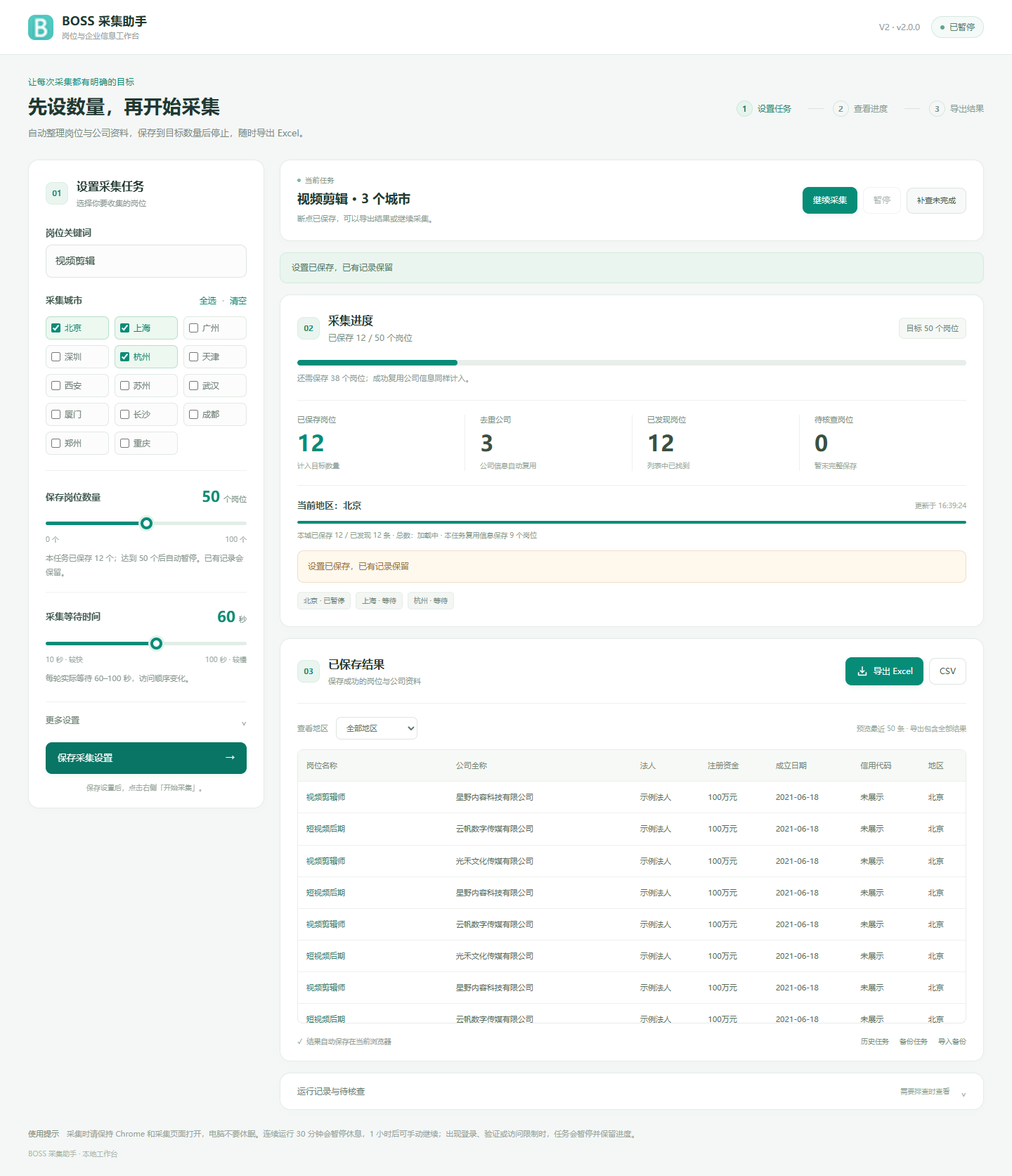
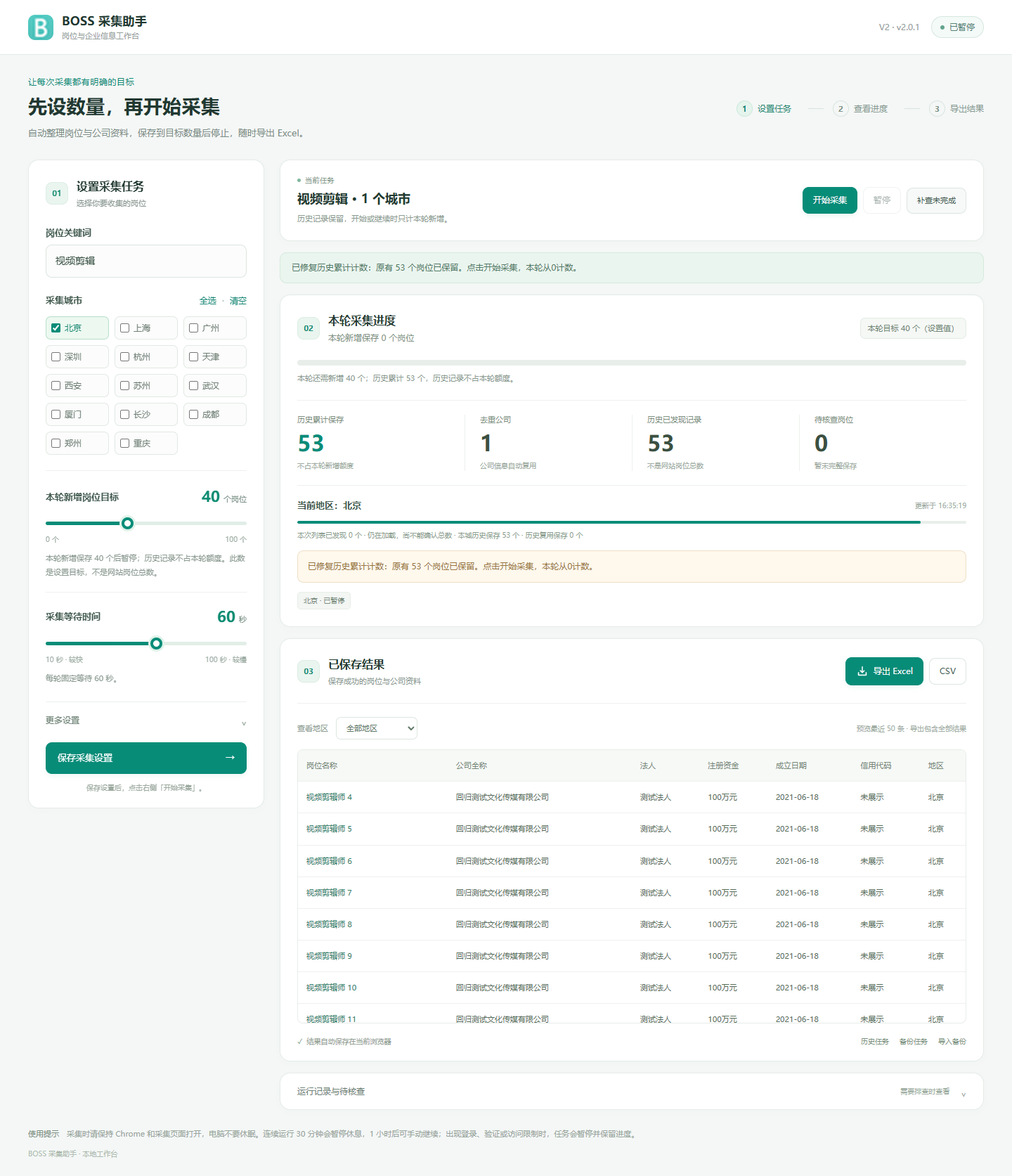
Fix per-round job counting and restart after historic target lock

diff --git a/core.js b/core.js
@@ -12,11 +12,28 @@ export function configuration(raw){
  return {keyword,cities,target:Number.isFinite(target)?Math.max(0,Math.min(100,Math.round(target))):50,interval:Number.isFinite(interval)&&interval>0?Math.max(10,Math.min(100,Math.round(interval))):60,stallLimit:Math.max(3,Math.min(10,Number(raw.stallLimit)||4)),varied:raw.varied!==false};
 }
 export const savedCount=s=>Object.values(s.jobs||{}).filter(e=>e.status==='saved').length;
-export const goalReached=s=>savedCount(s)>=configuration(s.config).target;
+export const roundCount=s=>s.round?.id?Object.values(s.jobs||{}).filter(e=>e.status==='saved'&&e.roundId===s.round.id).length:0;
+export const goalReached=s=>roundCount(s)>=configuration(s.config).target;
+export function migrateCounting(s){
+ if(s.countingVersion===2)return false;
+ s.countingVersion=2;s.round=null;s.nextRunAt=null;
+ if(s.status==='running'||s.stopReason==='target'){
+  s.status='paused';s.stopReason='';s.reason='已修复历史累计计数：原有 '+savedCount(s)+' 个岗位已保留。点击开始采集，本轮从0计数。';
+ }
+ return true;
+}
+export function beginRound(s,rescan=false){
+ s.round={id:crypto.randomUUID(),startedAt:Date.now()};s.stopReason='';s.nextRunAt=null;
+ if(rescan||s.cityIndex>=s.config.cities.length){
+  for(const city of s.config.cities)delete s.cities[city];
+  s.cityIndex=0;s.scans={};
+ }
+ s.currentCity=s.config.cities[s.cityIndex];s.currentJob='';s.phase='setup';
+}
 export function targetPause(s){
  if(!goalReached(s)||s.status==='complete')return false;
  s.status='paused';s.stopReason='target';s.nextRunAt=null;
- s.reason=configuration(s.config).target===0?'目标设为0个，当前不会启动采集。请选择1–100个岗位后开始，已有记录会保留。':'已达到岗位目标：累计保存 '+savedCount(s)+' / '+configuration(s.config).target+' 个岗位。可以导出结果；提高目标并保存设置后可继续。';return true;
+ s.reason=configuration(s.config).target===0?'本轮目标设为0个，不会启动采集。请选择1–100个岗位后开始，历史记录保留。':'本轮已新增保存 '+roundCount(s)+' 个岗位，达到本轮目标 '+configuration(s.config).target+' 个。历史累计 '+savedCount(s)+' 个，可导出结果或开始新一轮。';return true;
 }
 export function waitSeconds(config,random=Math.random){
  const base=Math.max(10,Math.min(100,Math.round(Number(config.interval)||60)));
@@ -57,11 +74,13 @@ export function companyCache(tasks,existing={}){
  }
  return result;
 }
-export function fresh(config){return {version:1,id:crypto.randomUUID(),config:configuration(config),status:'paused',cityIndex:0,phase:'setup',jobs:{},companies:{},cities:{},tabId:null,detailTab:null,stalls:0,logs:[],startedAt:null,updatedAt:Date.now(),reason:''};}
+export function fresh(config){return {version:1,countingVersion:2,round:null,id:crypto.randomUUID(),config:configuration(config),status:'paused',cityIndex:0,phase:'setup',jobs:{},companies:{},cities:{},tabId:null,detailTab:null,stalls:0,logs:[],startedAt:null,updatedAt:Date.now(),reason:''};}
 export function discover(s,jobs){
  const city=s.config.cities[s.cityIndex];let added=0;
+ s.scans||={};const scan=s.scans[city]||={end:'',stalls:0,seen:[]};const seen=new Set(scan.seen||[]);
  for(const job of jobs){let url;try{url=canonical(job.url,'job')}catch{continue}
   const key=city+'|'+url;
+  seen.add(key);
   if(s.jobs[key]){
    const old=s.jobs[key];
    // Preserve saved rows; refresh pending/review metadata only from a verified local card.
@@ -75,12 +94,12 @@ export function discover(s,jobs){
   const entry={job:{...job,url,city},status:'pending',attempts:0,reason:''};
   if(!job.title||!new RegExp('^'+city+'(?:市)?(?:[·\\s]|$)').test(job.location||'')){entry.status='review';entry.reason='岗位名称或实际工作城市未唯一确认';}
   s.jobs[key]=entry;added++;
- }return added;
+ }scan.seen=[...seen];return added;
 }
 export function stats(s){
  const jobs=Object.values(s.jobs),saved=jobs.filter(j=>j.status==='saved'),review=jobs.filter(j=>j.status==='review');
  const city=s.config.cities[s.cityIndex]||s.currentCity||s.config.cities.at(-1)||'—',local=jobs.filter(j=>j.job.city===city);
- return {city,found:jobs.length,saved:saved.length,review:review.length,companies:new Set(saved.map(j=>meaningful(j.row[5])||j.row[1])).size,reused:saved.filter(j=>j.source==='cache').length,localFound:local.length,localSaved:local.filter(j=>j.status==='saved').length,confirmed:!!(s.cities[city]?.endConfirmed||s.scans?.[city]?.end)};
+ return {city,found:jobs.length,saved:saved.length,roundSaved:roundCount(s),localObserved:s.scans?.[city]?.seen?.length||0,review:review.length,companies:new Set(saved.map(j=>meaningful(j.row[5])||j.row[1])).size,reused:saved.filter(j=>j.source==='cache').length,localFound:local.length,localSaved:local.filter(j=>j.status==='saved').length,confirmed:!!(s.cities[city]?.endConfirmed||s.scans?.[city]?.end)};
 }
 export function finishCity(s,endConfirmed,reason=''){
  const city=s.config.cities[s.cityIndex];const jobs=Object.values(s.jobs).filter(j=>j.job.city===city);
@@ -94,12 +113,17 @@ export function commit(s,key,boss,source='page'){
  const e=s.jobs[key];
  if(!e?.job.title||!new RegExp('^'+e.job.city+'(?:市)?(?:[·\\s]|$)').test(e.job.location||''))throw Error('岗位名称或实际工作城市未唯一确认');
  if(e.status==='saved'||goalReached(s))return false;
+ if(!s.round?.id)beginRound(s);
  e.row=[e.job.title,boss.name,boss.legal||'未展示',boss.capital||'未展示',boss.date||'未展示',boss.credit||'未展示',e.job.city];e.status='saved';e.reason='';e.source=source;
+ e.roundId=s.round.id;e.savedAt=Date.now();
  return true;
 }
 export function exportedRows(s){return Object.values(s.jobs).filter(j=>j.status==='saved').map(j=>j.row);}
 export function configureTask(previous,raw,archives=[]){
  const config=configuration(raw),s=previous?.config.keyword===config.keyword?structuredClone(previous):fresh(config);
+ migrateCounting(s);
+ const scopeChanged=JSON.stringify(s.config.cities)!==JSON.stringify(config.cities);
+ const resetRound=scopeChanged||(config.target<roundCount(s));
  s.config=config;
  for(const old of archives.filter(t=>t?.config?.keyword===config.keyword)){
   for(const [key,e] of Object.entries(old.jobs||{})){
@@ -112,6 +136,7 @@ export function configureTask(previous,raw,archives=[]){
  if(s.cityIndex<0){s.cityIndex=config.cities.length;s.status='complete';s.reason='所选城市已完成，已有记录保留';}
  else{s.status='paused';s.reason='设置已保存，已有记录保留';}
  s.stopReason='';s.nextRunAt=null;s.currentCity=config.cities[s.cityIndex]||config.cities.at(-1);s.currentJob='';s.phase='setup';s.scans||={};
+ if(resetRound)s.round=null;
  if(s.scans[s.currentCity])s.scans[s.currentCity].stalls=0;
  targetPause(s);
  return s;
@@ -123,7 +148,7 @@ export function restoreBackup(raw){
   const url=canonical(e.job?.url,'job');if(!CITIES.includes(e.job?.city)||key!==e.job.city+'|'+url)throw Error('备份岗位来源或地区无效');
   if(!['pending','saved','review'].includes(e.status))throw Error('备份状态无效');
   if(e.status==='saved'&&(!Array.isArray(e.row)||e.row.length!==7||e.row.some(v=>typeof v!=='string')||e.row[6]!==e.job.city))throw Error('备份结果列或地区无效');
-  s.jobs[key]={job:{title:String(e.job.title||''),url,company_url:String(e.job.company_url||''),city:e.job.city,location:String(e.job.location||'')},status:e.status,row:e.row,reason:String(e.reason||''),attempts:0,source:e.source==='cache'?'cache':'page'};
+  s.jobs[key]={job:{title:String(e.job.title||''),url,company_url:String(e.job.company_url||''),city:e.job.city,location:String(e.job.location||'')},status:e.status,row:e.row,reason:String(e.reason||''),attempts:0,source:e.source==='cache'?'cache':'page',roundId:typeof e.roundId==='string'?e.roundId:undefined,savedAt:Number.isFinite(e.savedAt)?e.savedAt:undefined};
  }
  s.companies=companyCache([s,{companies:raw.companies}]);s.cities={};
  for(const city of s.config.cities){
@@ -131,5 +156,6 @@ export function restoreBackup(raw){
  }
  s.cityIndex=s.config.cities.findIndex(city=>!s.cities[city]?.complete);
  if(s.cityIndex<0){s.cityIndex=s.config.cities.length;s.status='complete';}
- s.currentCity=s.config.cities[s.cityIndex]||s.config.cities.at(-1);s.phase='setup';s.reason='备份已恢复，已保存公司信息与完成城市保留';targetPause(s);return s;
+ if(raw.countingVersion===2&&typeof raw.round?.id==='string'&&Number.isFinite(raw.round.startedAt))s.round={id:raw.round.id,startedAt:raw.round.startedAt};
+ s.currentCity=s.config.cities[s.cityIndex]||s.config.cities.at(-1);s.phase='setup';s.reason='备份已恢复，历史记录与公司缓存保留；本轮计数与累计数量分别显示。';targetPause(s);return s;
 }

diff --git a/dashboard.js b/dashboard.js
@@ -10,11 +10,11 @@ const config=()=>({keyword:$('keyword').value,cities:[...document.querySelectorA
 function sliderLabels(){
  const target=Number($('target').value),base=Number($('interval').value);
  $('target-value').textContent=String(target);$('interval-value').textContent=String(base);
- $('target-help').textContent=target===0?'0表示不启动采集；已有保存记录会保留。':task?`本任务已保存 ${stats(task).saved} 个；达到 ${target} 个后自动暂停。已有记录会保留。`:'按全部所选城市累计计算；只有保存成功的岗位计入目标。';
+ $('target-help').textContent=target===0?'0表示不启动采集；历史记录保留。':`本轮新增保存 ${target} 个后暂停；历史记录不占本轮额度。此数是设置目标，不是网站岗位总数。`;
  const upper=Math.min(100,base*2-1);
  $('interval-help').textContent=$('varied').checked?`每轮实际等待 ${base===upper?base:base+'–'+upper} 秒，访问顺序变化。`:`每轮固定等待 ${base} 秒。`;
  for(const id of ['target','interval']){const input=$(id);input.style.setProperty('--range-progress',100*(input.value-input.min)/(input.max-input.min)+'%');}
- if(task&&task.status!=='running')$('resume').disabled=['complete','incomplete'].includes(task.status)||(!draftDirty&&task.stopReason==='target');
+ if(task&&task.status!=='running')$('resume').disabled=target===0;
 }
 function draftChanged(){draftDirty=true;sliderLabels();$('run-feedback').textContent=task?.status==='running'?'新设置还未应用。请先暂停，再保存设置。':'设置已调整。点击“开始采集”会自动保存并使用新设置。';}
 for(const id of ['keyword','target','interval','varied','stall'])$(id).addEventListener('input',draftChanged);
@@ -26,7 +26,7 @@ function errors(e){$('action-error').textContent=e.message;}
 async function saveSettings(){const r=await command('new',{config:config()});draftDirty=false;draw(r.task,true);return r.task;}
 $('resume').onclick=async()=>{try{
  $('action-error').textContent='';if(!task||draftDirty)await saveSettings();
- const r=await command('resume');draw(r.task);
+ const r=await command('resume',{newRound:!!task&&(['complete','incomplete'].includes(task.status)||task.stopReason==='target')&&configuration(task.config).target>0});draw(r.task);
 }catch(e){errors(e);}};
 for(const [id,action] of [['pause','pause'],['retry','retry']])$(id).onclick=async()=>{try{$('action-error').textContent='';const r=await command(action);draw(r.task);}catch(e){errors(e);}};
 $('new').onclick=async()=>{try{
@@ -46,15 +46,15 @@ function draw(s,syncSettings=false){
  const v=stats(s),names={running:'正在采集',paused:'已暂停',complete:'全部完成',incomplete:'扫描结束，待补查'};
  $('status').textContent=s.stopReason==='target'?(configuration(s.config).target===0?'未启动':'目标已达成'):names[s.status]||s.status;$('status').dataset.state=s.stopReason==='target'?'target':s.status;$('task-title').textContent=s.config.keyword+' · '+s.config.cities.length+' 个城市';
  const target=configuration(s.config).target;
- $('goal-progress').value=target>0?Math.min(100,100*v.saved/target):0;$('goal-summary').textContent='已保存 '+v.saved+' / '+target+' 个岗位';$('goal-limit').textContent='目标 '+target+' 个岗位';
- $('goal-hint').textContent=target===0?'数量为0，当前不会采集。调高数量即可开始。':s.status==='complete'?`所选城市已采集完，共保存 ${v.saved} 个岗位。`:s.stopReason==='target'?'目标已达成，可以导出结果；提高目标后可继续。':`还需保存 ${Math.max(0,target-v.saved)} 个岗位；成功复用公司信息同样计入。`;
+ $('goal-progress').value=target>0?Math.min(100,100*v.roundSaved/target):0;$('goal-summary').textContent='本轮新增保存 '+v.roundSaved+' 个岗位';$('goal-limit').textContent='本轮目标 '+target+' 个（设置值）';
+ $('goal-hint').textContent=target===0?'数量为0，当前不会采集。调高数量即可开始。':s.status==='complete'?`本轮已采完所选列表，实际新增 ${v.roundSaved} 个；历史累计 ${v.saved} 个。列表可少于目标。`:s.stopReason==='target'?`本轮目标已达成；历史累计 ${v.saved} 个。可导出结果，或点击开始新一轮。`:`本轮还需新增 ${Math.max(0,target-v.roundSaved)} 个；历史累计 ${v.saved} 个，历史记录不占本轮额度。`;
  $('run-feedback').textContent=draftDirty?(s.status==='running'?'新设置尚未应用。请先暂停，再保存设置。':'新设置尚未应用。点击“开始采集”会先保存设置。'):s.status==='running'?'正在按目标采集。已有公司资料会直接复用；需要验证时会暂停并提示。':s.reason||'设置已保存，点击“开始采集”即可运行。';
- $('step').textContent=s.status==='complete'?'采集已结束，可以导出全部已保存结果。':s.status!=='running'?'断点已保存，可以导出结果或继续采集。':s.phase==='loading'?'正在加载更多岗位…':s.phase==='collect'&&s.currentJob?'正在读取公司信息：'+s.currentJob:s.phase==='setup'?'正在准备城市与岗位列表…':'本轮已保存，等待继续采集。';
+ $('step').textContent=s.status==='complete'?'列表已检查完，可导出结果或开始新一轮。':s.status!=='running'?'历史记录保留，开始或继续时只计本轮新增。':s.phase==='loading'?'正在加载更多岗位…':s.phase==='collect'&&s.currentJob?'正在读取公司信息：'+s.currentJob:s.phase==='setup'?'正在准备城市与岗位列表…':'本轮已保存，等待继续采集。';
  if(s.status==='running'&&s.nextRunAt>Date.now())$('step').textContent+=' · 下轮约 '+new Date(s.nextRunAt).toLocaleTimeString();
  for(const k of ['saved','companies','found','review'])$(k).textContent=v[k];
  $('city').textContent='当前地区：'+(s.currentCity||v.city);$('updated').textContent='更新于 '+new Date(s.updatedAt).toLocaleTimeString();
  $('progress').value=100*v.localSaved/Math.max(1,v.localFound);
- $('local').textContent=`本城已保存 ${v.localSaved} / 已发现 ${v.localFound} 条 · 总数：${v.confirmed?v.localFound:'加载中'} · 本任务复用信息保存 ${v.reused} 个岗位`;
+ $('local').textContent=`本次列表已发现 ${v.localObserved} 个 · ${v.confirmed?'已确认当前页面列表末尾':'仍在加载，尚不能确认总数'} · 本城历史保存 ${v.localSaved} 个 · 历史复用保存 ${v.reused} 个`;
  $('reason').textContent=s.reason;$('reason').style.display=s.reason?'block':'none';
  restrictionButton.hidden=s.status!=='paused'||!String(s.reason).includes('平台限制访问');
  $('city-status').replaceChildren();for(const c of s.config.cities){const span=document.createElement('span'),entry=s.cities[c];span.textContent=c+' · '+(entry?.complete?'完成':entry?'待补查':c===s.currentCity?(s.status==='running'?'采集中':'已暂停'):'等待');span.className=entry?.complete?'done':entry?'missing':'';$('city-status').append(span);}
@@ -62,7 +62,7 @@ function draw(s,syncSettings=false){
  $('logs').replaceChildren();const reviews=Object.values(s.jobs).filter(e=>e.status==='review');
  for(const e of reviews){const div=document.createElement('div');div.className='warning';div.textContent='待核查：'+e.job.city+' / '+e.job.title+' — '+e.reason;$('logs').append(div);}
  for(const e of s.logs.slice(-35).reverse()){const div=document.createElement('div');div.textContent=new Date(e.at).toLocaleTimeString()+'  '+e.text;$('logs').append(div);}
- $('resume').disabled=s.status==='running'||['complete','incomplete'].includes(s.status)||(!draftDirty&&s.stopReason==='target');$('resume').textContent=s.status==='running'?'正在采集…':s.startedAt?'继续采集':'开始采集';$('pause').disabled=s.status!=='running';$('retry').disabled=s.status==='running'||s.stopReason==='target';$('new').disabled=s.status==='running';
+ $('resume').disabled=s.status==='running'||target===0;$('resume').textContent=s.status==='running'?'正在采集…':['complete','incomplete'].includes(s.status)||s.stopReason==='target'&&target>0?'开始新一轮':s.round?.id?'继续本轮':'开始采集';$('pause').disabled=s.status!=='running';$('retry').disabled=s.status==='running';$('new').disabled=s.status==='running';
  const overdue=Date.now()-Math.max(s.updatedAt,s.nextRunAt||0);if(s.status==='running'&&overdue>180000){$('reason').style.display='block';$('reason').textContent='已超过预计执行时间3分钟，请检查Chrome是否休眠、页面是否出现验证或连接问题。断点仍保留。';}
  sliderLabels();
 }

diff --git a/background.js b/background.js
@@ -1,4 +1,4 @@
-import {fresh,canonical,configuration,discover,stats,commit,finishCity,restoreBackup,configureTask,waitSeconds,nextPending,companyCache,companyData,goalReached,targetPause} from './core.js';
+import {fresh,canonical,configuration,discover,stats,commit,finishCity,restoreBackup,configureTask,waitSeconds,nextPending,companyCache,companyData,goalReached,targetPause,migrateCounting,beginRound,roundCount} from './core.js';
 const ALARM='boss-collector-tick';let serial=Promise.resolve(),shortTimer;
 const exclusive=fn=>{const next=serial.then(fn);serial=next.catch(()=>{});return next;};
 const load=async()=> (await chrome.storage.local.get('task')).task;
@@ -129,7 +129,7 @@ async function step(){
   const city=s.config.cities[s.cityIndex],t=await listTab(s);s.currentCity=city;
   const cache=(await chrome.storage.local.get('companyCache')).companyCache||{};
   if(s.phase==='setup'){
-   s.scans||={};s.scans[city]={end:'',stalls:0};
+   s.scans||={};s.scans[city]={end:'',stalls:0,seen:[]};
    const u=new URL(t.url||'https://www.zhipin.com/web/geek/jobs');
    if(u.searchParams.get('query')!==s.config.keyword){u.searchParams.set('query',s.config.keyword);await chrome.tabs.update(t.id,{url:u.href});}
    await send(t.id,'city',{city,keyword:s.config.keyword});s.phase='scan';log(s,'开始采集 '+city+' / '+s.config.keyword);
@@ -229,7 +229,8 @@ async function control(m){
   const old=(await chrome.storage.local.get(m.key))[m.key];if(!old)throw Error('历史任务不存在');
   if(s)await chrome.storage.local.set({['archive_'+s.id]:s});
   const restored=structuredClone(old);restored.status='paused';restored.reason='已打开历史任务，断点保留';restored.tabId=null;restored.detailTab=null;restored.phase='setup';
-  if(restored.cityIndex>=restored.config.cities.length){restored.status=old.status;}
+  if(restored.cityIndex>=restored.config.cities.length&&old.status==='complete'){restored.status='complete';}
+  migrateCounting(restored);
   restored.config=configuration(restored.config);targetPause(restored);
   await migrateCache(restored);await save(restored);return {task:restored};
  }
@@ -252,19 +253,23 @@ async function control(m){
  }
  if(m.action==='resume'){
   s.config=configuration(s.config);
-  if(await stopAtTarget(s))return {task:s};
+  migrateCounting(s);
+  if(s.status==='running')return {task:s};
+  if(s.config.target===0){await stopAtTarget(s);return {task:s};}
+  const restart=m.newRound===true||!s.round?.id;
+  if(!restart&&await stopAtTarget(s))return {task:s};
   const restriction=(await chrome.storage.local.get('platformRestriction')).platformRestriction;
   if(restriction){
    if(!restriction.until||Date.now()<restriction.until)throw Error(restriction.reason);
    // Expiry permits only an explicit user resume. No automatic restart.
    await chrome.storage.local.set({platformRestriction:null});
   }
-  if(s.status==='running')return {task:s};
-  if(['complete','incomplete'].includes(s.status))throw Error('本轮已结束，未完成城市请使用“重查未完成”');
+  if(['complete','incomplete'].includes(s.status)&&!restart)throw Error('本轮已结束，请点击“开始新一轮”重新检查列表，历史记录会保留。');
   await pacing();s.config=configuration(s.config);
+  if(restart)beginRound(s,['complete','incomplete'].includes(s.status));
   s.phase='setup';s.connectionRetries=0;s.scopeRetries=0;
   if(s.scans?.[s.config.cities[s.cityIndex]])s.scans[s.config.cities[s.cityIndex]].stalls=0;
-  s.status='running';s.stopReason='';s.reason='';s.startedAt||=Date.now();log(s,'从 '+s.config.cities[s.cityIndex]+' 断点继续');await save(s);await schedule(s);return {task:s};
+  s.status='running';s.stopReason='';s.reason='';s.startedAt||=Date.now();log(s,(restart?'开始新一轮，目标 '+s.config.target+' 个；':'继续本轮，已新增 '+roundCount(s)+' 个；')+'当前城市 '+s.config.cities[s.cityIndex]);await save(s);await schedule(s);return {task:s};
  }
  if(m.action==='pause'){clearTimeout(shortTimer);s.status='paused';s.stopReason='user';s.nextRunAt=null;s.reason='用户暂停，断点已保留';await chrome.alarms.clear(ALARM);await save(s);return {task:s};}
  if(m.action==='retry'){
@@ -285,6 +290,7 @@ chrome.alarms.onAlarm.addListener(a=>{if(a.name===ALARM)return exclusive(()=>tic
 chrome.action.onClicked.addListener(async()=>{const url=chrome.runtime.getURL('dashboard.html');const tabs=await chrome.tabs.query({url});if(tabs.length)await chrome.tabs.update(tabs[0].id,{active:true});else await chrome.tabs.create({url});});
 chrome.runtime.onStartup.addListener(()=>exclusive(async()=>{
  const s=await load();await chrome.alarms.clear(ALARM);
+ if(s&&migrateCounting(s)){await save(s);return;}
  if(s?.status==='running'){
   s.config=configuration(s.config);if(await stopAtTarget(s))return;
   s.phase='setup';s.tabId=null;s.detailTab=null;s.scopeRetries=0;s.connectionRetries=0;
@@ -295,6 +301,7 @@ chrome.runtime.onStartup.addListener(()=>exclusive(async()=>{
 // Worker suspension loses globals, never the persisted queue. Recreate a missing alarm.
 exclusive(async()=>{
  const s=await load();if(!s)return;
+ const migrated=migrateCounting(s);
  const all=await chrome.storage.local.get(null);let restored=0;
  for(const [name,old] of Object.entries(all)){
   if(!name.startsWith('archive_')||old?.config?.keyword!==s.config.keyword)continue;
@@ -302,6 +309,6 @@ exclusive(async()=>{
  }
  await migrateCache(s);
  s.config=configuration(s.config);if(await stopAtTarget(s))return;
- if(restored){log(s,'恢复同关键词历史记录 '+restored+' 条');await save(s);}
+ if(restored||migrated){if(restored)log(s,'恢复同关键词历史记录 '+restored+' 条（不计入本轮新增）');await save(s);}
  if(s.status==='running'&&!await chrome.alarms.get(ALARM))await schedule(s);
 });

diff --git a/dashboard.html b/dashboard.html
@@ -14,7 +14,7 @@
         <img src="icons/boss48.png" width="36" height="36" alt="">
         <div><strong>BOSS 采集助手</strong><span>岗位与企业信息工作台</span></div>
       </a>
-      <div class="appbar-meta"><span class="version">V2 · v2.0.0</span><span id="status" class="status" role="status">等待开始</span></div>
+      <div class="appbar-meta"><span class="version">V2 · v2.0.1</span><span id="status" class="status" role="status">等待开始</span></div>
     </div>
   </header>
 
@@ -34,10 +34,10 @@
       <div id="cities" class="cities" aria-label="选择采集城市"></div>
 
       <div class="slider-field">
-        <label class="slider-heading" for="target"><span>保存岗位数量</span><span class="setting-value"><strong id="target-value">50</strong><span>个岗位</span></span></label>
+        <label class="slider-heading" for="target"><span>本轮新增岗位目标</span><span class="setting-value"><strong id="target-value">50</strong><span>个岗位</span></span></label>
         <input id="target" type="range" min="0" max="100" step="1" value="50" aria-describedby="target-help">
         <div class="range-endpoints"><span>0 个</span><span>100 个</span></div>
-        <p id="target-help" class="field-help">以本任务已保存的岗位为准，达到数量后自动停止。设为 0 时不启动。</p>
+        <p id="target-help" class="field-help">只计本轮新保存的岗位，历史记录不占额度；此数是设置目标，不是网站岗位总数。0不启动。</p>
       </div>
 
       <div class="slider-field speed-field">
@@ -70,14 +70,14 @@
       <div id="run-feedback" class="feedback" role="status" aria-live="polite">保存设置并开始后，这里会显示当前进度和下一步提示。</div>
 
       <div class="card goal-card">
-        <div class="goal-heading"><div class="section-heading"><span class="section-number">02</span><div><h2>采集进度</h2><p id="goal-summary">已保存 0 / 50 个岗位</p></div></div><span id="goal-limit" class="goal-limit">目标 50 个岗位</span></div>
+        <div class="goal-heading"><div class="section-heading"><span class="section-number">02</span><div><h2>本轮采集进度</h2><p id="goal-summary">本轮新增保存 0 个岗位</p></div></div><span id="goal-limit" class="goal-limit">本轮目标 50 个（设置值）</span></div>
         <progress id="goal-progress" class="goal-progress" max="100" value="0" aria-label="保存岗位目标完成进度"></progress>
         <p id="goal-hint" class="field-help">达到目标后自动停止；也可以随时暂停，之后继续。</p>
 
         <div class="metrics">
-          <div class="metric metric-primary"><span>已保存岗位</span><strong id="saved">0</strong><small>计入目标数量</small></div>
+          <div class="metric metric-primary"><span>历史累计保存</span><strong id="saved">0</strong><small>不占本轮新增额度</small></div>
           <div class="metric"><span>去重公司</span><strong id="companies">0</strong><small>公司信息自动复用</small></div>
-          <div class="metric"><span>已发现岗位</span><strong id="found">0</strong><small>列表中已找到</small></div>
+          <div class="metric"><span>历史已发现记录</span><strong id="found">0</strong><small>不是网站岗位总数</small></div>
           <div class="metric"><span>待核查岗位</span><strong id="review">0</strong><small>暂未完整保存</small></div>
         </div>
 

diff --git a/README.md b/README.md
@@ -4,15 +4,19 @@
 
 **使用顺序：下载 → 安装插件 → 登录 BOSS → 选关键词和城市 → 开始 → 导出 Excel。**
 
-当前版本：**V2（2.0.0）**。无需影刀，也不需要安装 Python 或 Node.js 才能使用。
+当前版本：**V2（2.0.1）**。无需影刀，也不需要安装 Python 或 Node.js 才能使用。
 
-**[下载 V2 安装包](https://github.com/TsNIUPI/boss-job-collector/releases/download/v2.0.0/BOSS-Collector-V2-v2.0.0.zip)** · [V2 更新说明](https://github.com/TsNIUPI/boss-job-collector/releases/tag/v2.0.0) · [简明使用说明](使用说明.md)
+**[下载 V2 修复版](https://github.com/TsNIUPI/boss-job-collector/releases/download/v2.0.1/BOSS-Collector-V2-v2.0.1.zip)** · [更新说明](https://github.com/TsNIUPI/boss-job-collector/releases/tag/v2.0.1) · [简明使用说明](使用说明.md)
 
 ![V2 中文工作台预览](docs/workbench-v2.png)
 
 界面预览使用演示数据。
 
-主设置使用两个滑轨：保存岗位数量0–100个（默认50），等待时间10–100秒（默认60）。数量为本任务所有城市累计保存成功的岗位，已有记录和直接复用公司资料保存的岗位均计入；失败、待核查和重复岗位不计入。数量设为0不会启动采集。达到目标暂停并保留断点，提高目标后可继续；调低目标不删除已有记录。
+主设置使用两个滑轨：本轮新增岗位目标0–100个（默认50），等待时间10–100秒（默认60）。目标只统计当前一轮首次保存的新岗位；历史累计记录、重复岗位和待核查记录不占本轮额度，直接复用公司资料保存的新岗位计入。0不会启动。
+
+例如历史累计53个、设本轮目标40个：开始时本轮新增为0，最多再新增40个，累计可达到93个。界面分别显示本轮新增、设置目标、历史累计和列表发现数；设置目标不能证明网站实际存在该数量的岗位。
+
+普通暂停、定时休息、浏览器重启和备份恢复保留本轮计数；达到目标后点击“开始新一轮”才重新从0计数。已经检查完的城市也可再次检查新岗位。调低目标到本轮已保存数以下时准备新一轮，历史记录始终保留。
 
 开启变化等待时，每轮等待从滑轨值至 `min(100, 2×滑轨值−1)` 秒；关闭后按滑轨值固定等待。比如60秒对应60–100秒，10秒对应10–19秒。网页加载、浏览器休眠可能延迟实际执行；它不是每条岗位的固定耗时。
 
@@ -101,7 +105,7 @@
 
 ### 为什么会显示采集休息中
 
-数量停止条件统一改为本任务已保存岗位目标，取消旧的20次公司详情限制。达到岗位目标会暂停，可直接导出结果。仍保留本轮30分钟运行后休息1小时、手动继续，以及登录、验证和平台限制暂停。切换关键词、城市或重开Chrome不会清除休息状态；这些程序限制不是平台公布的安全额度。
+数量停止条件以本轮新增保存岗位为准。达到本轮目标暂停，可导出结果或点击开始新一轮。仍保留30分钟运行后休息1小时、手动继续，以及登录、验证和平台限制暂停。切换关键词、城市或重开Chrome不会清除休息状态。
 
 ### 登录、验证码或访问限制出现了
 
@@ -144,6 +148,6 @@
 npm test
 ```
 
-当前70项本地逻辑测试通过，覆盖目标数量精确停止、缓存批量不超额、目标调整、0数量、短间隔调度、断点恢复、自动切城、列表加载、去重、记录保留和连接恢复等逻辑。另通过本地Chrome界面测试：滑轨、提示、开始/暂停、数量调整、结果筛选、Excel下载和桌面/窄屏排版。模拟测试不能代替真实网站持续运行验收。
+当前75项本地逻辑测试通过，新增覆盖历史53个+本轮目标40个仍能运行、暂停/重启保持本轮、备份和历史合并不占新额度、跨城市历史、下一轮及已完成城市重扫。Chrome联动测试实际加载后台与工作台模块，验证53历史→本轮新增40→累计93、下一轮新增37→累计130，并检查1440/800/390像素布局。没有访问真实BOSS账号，持续运行仍待现场验收。
 
 第三方 JSZip 的许可证位于 [vendor/JSZip-LICENSE.md](vendor/JSZip-LICENSE.md)。

diff --git a/使用说明.md b/使用说明.md
@@ -2,7 +2,7 @@
 
 ## 安装
 
-1. 在仓库的 Releases 页面下载 BOSS-Collector-V2-v2.0.0.zip，解压到固定文件夹。
+1. 在仓库的 Releases 页面下载 BOSS-Collector-V2-v2.0.1.zip，解压到固定文件夹。
 2. 在 Chrome 地址栏打开 chrome://extensions，开启右上角开发者模式。
 3. 点击加载已解压的扩展程序，选择包含 manifest.json 的文件夹。
 4. 登录 BOSS 官网，点击插件图标打开工作台。
@@ -15,7 +15,9 @@
 4. 点击开始采集，新设置会先自动保存。
 5. 查看目标进度和运行提示，点击导出Excel获取结果。
 
-数量按本任务全部城市累计保存成功的岗位计算。直接复用公司资料保存的岗位同样计入；失败、待核查和重复岗位不计入。达到目标暂停并保留断点，提高目标后可继续；调低目标不删除已有记录。实际列表不足目标时，采集完已展示列表后结束。
+数量只算本轮新增保存成功的岗位。历史累计、失败、待核查和重复岗位不占本轮额度；缓存复用保存的新岗位计入。达到目标暂停，点击“开始新一轮”从0计数。普通暂停、休息、重启和备份恢复保留本轮计数。实际列表不足目标时按当前列表末尾结束，不保证存在目标数量的岗位。
+
+历史53个、目标40个时，本轮从0开始，最多新增40个，累计可到93个。界面分别显示本轮新增、设置目标、历史累计和当前列表发现数量。
 
 已保存公司信息按有效公司链接共享复用，跨关键词、城市和备份也能使用。缓存代表历史资料，工商信息变化时仍需重新核验。
 
@@ -29,6 +31,6 @@
 
 ## 验证范围
 
-70项本地逻辑测试通过，另完成滑轨、按钮、结果筛选、Excel下载及桌面/窄屏界面测试。真实BOSS账号持续运行与全部城市数据完整性仍需实际验收。
+75项本地逻辑测试通过，另实际加载后台与工作台模块完成53/40故障回归、暂停续跑、下一轮及桌面/窄屏检查。真实BOSS账号持续运行仍需实际验收。
 
 工具只读取页面展示的岗位与工商信息，不负责求职沟通、简历投递或联系方式采集。请遵守平台规则与权限。

diff --git a/CHANGELOG.md b/CHANGELOG.md
@@ -1,3 +1,14 @@
+# 2.0.1 本轮计数与启动修复
+
+发布日期：2026-10-14。
+
+历史累计53条、目标40条时，旧版本把历史计入本轮并禁用开始。本版只按本轮新增保存数量限制：旧记录保留，本轮从0开始，最多新增40条后累计93条。
+
+- 独立本轮标识持久化；暂停、休息、重启和备份恢复保留计数。
+- 旧版本计数迁移，历史及缓存不删除；历史合并和重复岗位不占新额度。
+- 达到目标或列表结束后可开始新一轮；已完成城市可重扫。
+- 明确区分本轮新增、设置目标、历史累计与当前列表发现；目标不是网站岗位总量。
+- 75项本地逻辑测试通过；实际后台/工作台模块联动验证53→新增40→累计93、下一轮新增37→累计130。未访问真实BOSS。
 # V2 / 2.0.0
 
 发布日期：2026-10-12。
